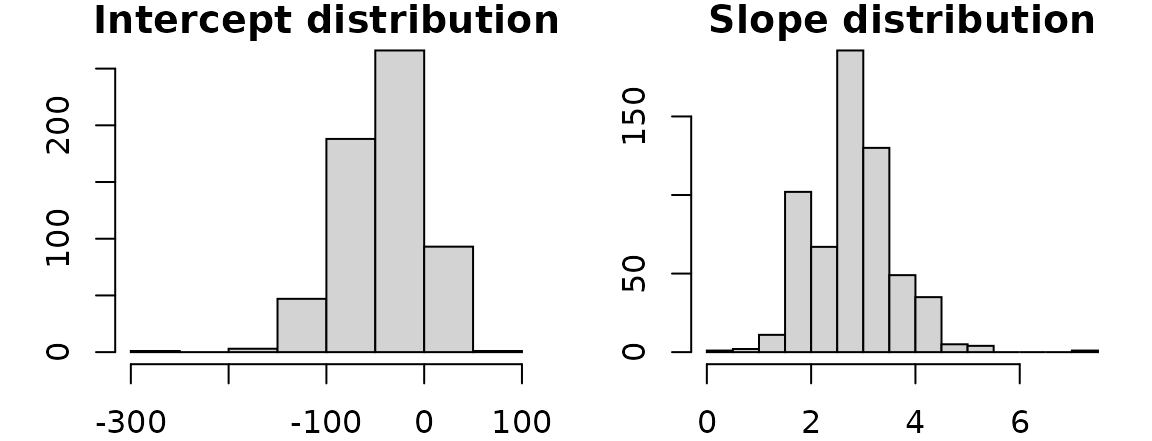
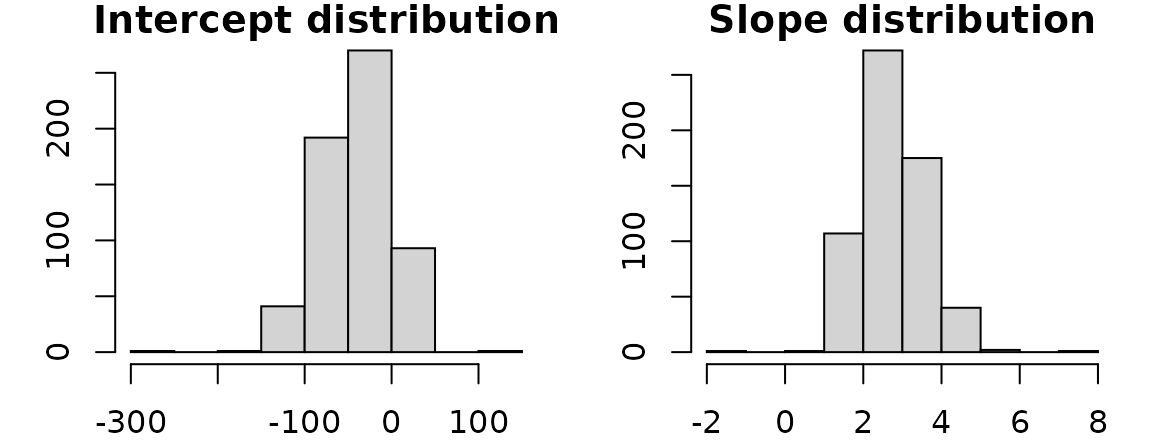
Built site for tukeyedar: 0.1.0@a9d6bf6

diff --git a/articles/RLine.html b/articles/RLine.html
@@ -286,9 +286,9 @@ median(y_{l,m,r} - b * x_{l,m,r})
 <code class="sourceCode R"><span class="va">conf</span> <span class="op">&lt;-</span> <span class="fu"><a href="https://rdrr.io/r/base/t.html">t</a></span><span class="op">(</span><span class="fu"><a href="https://rdrr.io/r/base/data.frame.html">data.frame</a></span><span class="op">(</span>Intercept <span class="op">=</span> <span class="fu"><a href="https://rdrr.io/r/stats/quantile.html">quantile</a></span><span class="op">(</span><span class="va">bt</span><span class="op">[</span>,<span class="fl">1</span><span class="op">]</span>, p<span class="op">=</span><span class="fu"><a href="https://rdrr.io/r/base/c.html">c</a></span><span class="op">(</span><span class="fl">0.05</span>,<span class="fl">0.95</span><span class="op">)</span> <span class="op">)</span>,
                      Slope <span class="op">=</span> <span class="fu"><a href="https://rdrr.io/r/stats/quantile.html">quantile</a></span><span class="op">(</span><span class="va">bt</span><span class="op">[</span>,<span class="fl">2</span><span class="op">]</span>, p<span class="op">=</span><span class="fu"><a href="https://rdrr.io/r/base/c.html">c</a></span><span class="op">(</span><span class="fl">0.05</span>,<span class="fl">0.95</span><span class="op">)</span> <span class="op">)</span><span class="op">)</span><span class="op">)</span>
 <span class="va">conf</span>
-<span class="co">#&gt;                    5%       95%</span>
-<span class="co">#&gt;  Intercept -74.805129 12.488300</span>
-<span class="co">#&gt;  Slope       1.662971  3.512323</span></code></pre></div>
+<span class="co">#&gt;                    5%      95%</span>
+<span class="co">#&gt;  Intercept -75.027130 9.445042</span>
+<span class="co">#&gt;  Slope       1.722362 3.529248</span></code></pre></div>
 </div>
 <div id="resampling-the-x-y-paired-values" class="section level3">
 <h3 class="hasAnchor">
@@ -314,7 +314,7 @@ median(y_{l,m,r} - b * x_{l,m,r})
                      Slope <span class="op">=</span> <span class="fu"><a href="https://rdrr.io/r/stats/quantile.html">quantile</a></span><span class="op">(</span><span class="va">bt</span><span class="op">[</span>,<span class="fl">2</span><span class="op">]</span>, p<span class="op">=</span><span class="fu"><a href="https://rdrr.io/r/base/c.html">c</a></span><span class="op">(</span><span class="fl">0.05</span>,<span class="fl">0.95</span><span class="op">)</span> <span class="op">)</span><span class="op">)</span><span class="op">)</span>
 <span class="va">conf</span>
 <span class="co">#&gt;                     5%       95%</span>
-<span class="co">#&gt;  Intercept -108.668421 12.393192</span>
+<span class="co">#&gt;  Intercept -108.668421 12.647167</span>
 <span class="co">#&gt;  Slope        1.643678  4.157895</span></code></pre></div>
 </div>
 </div>
